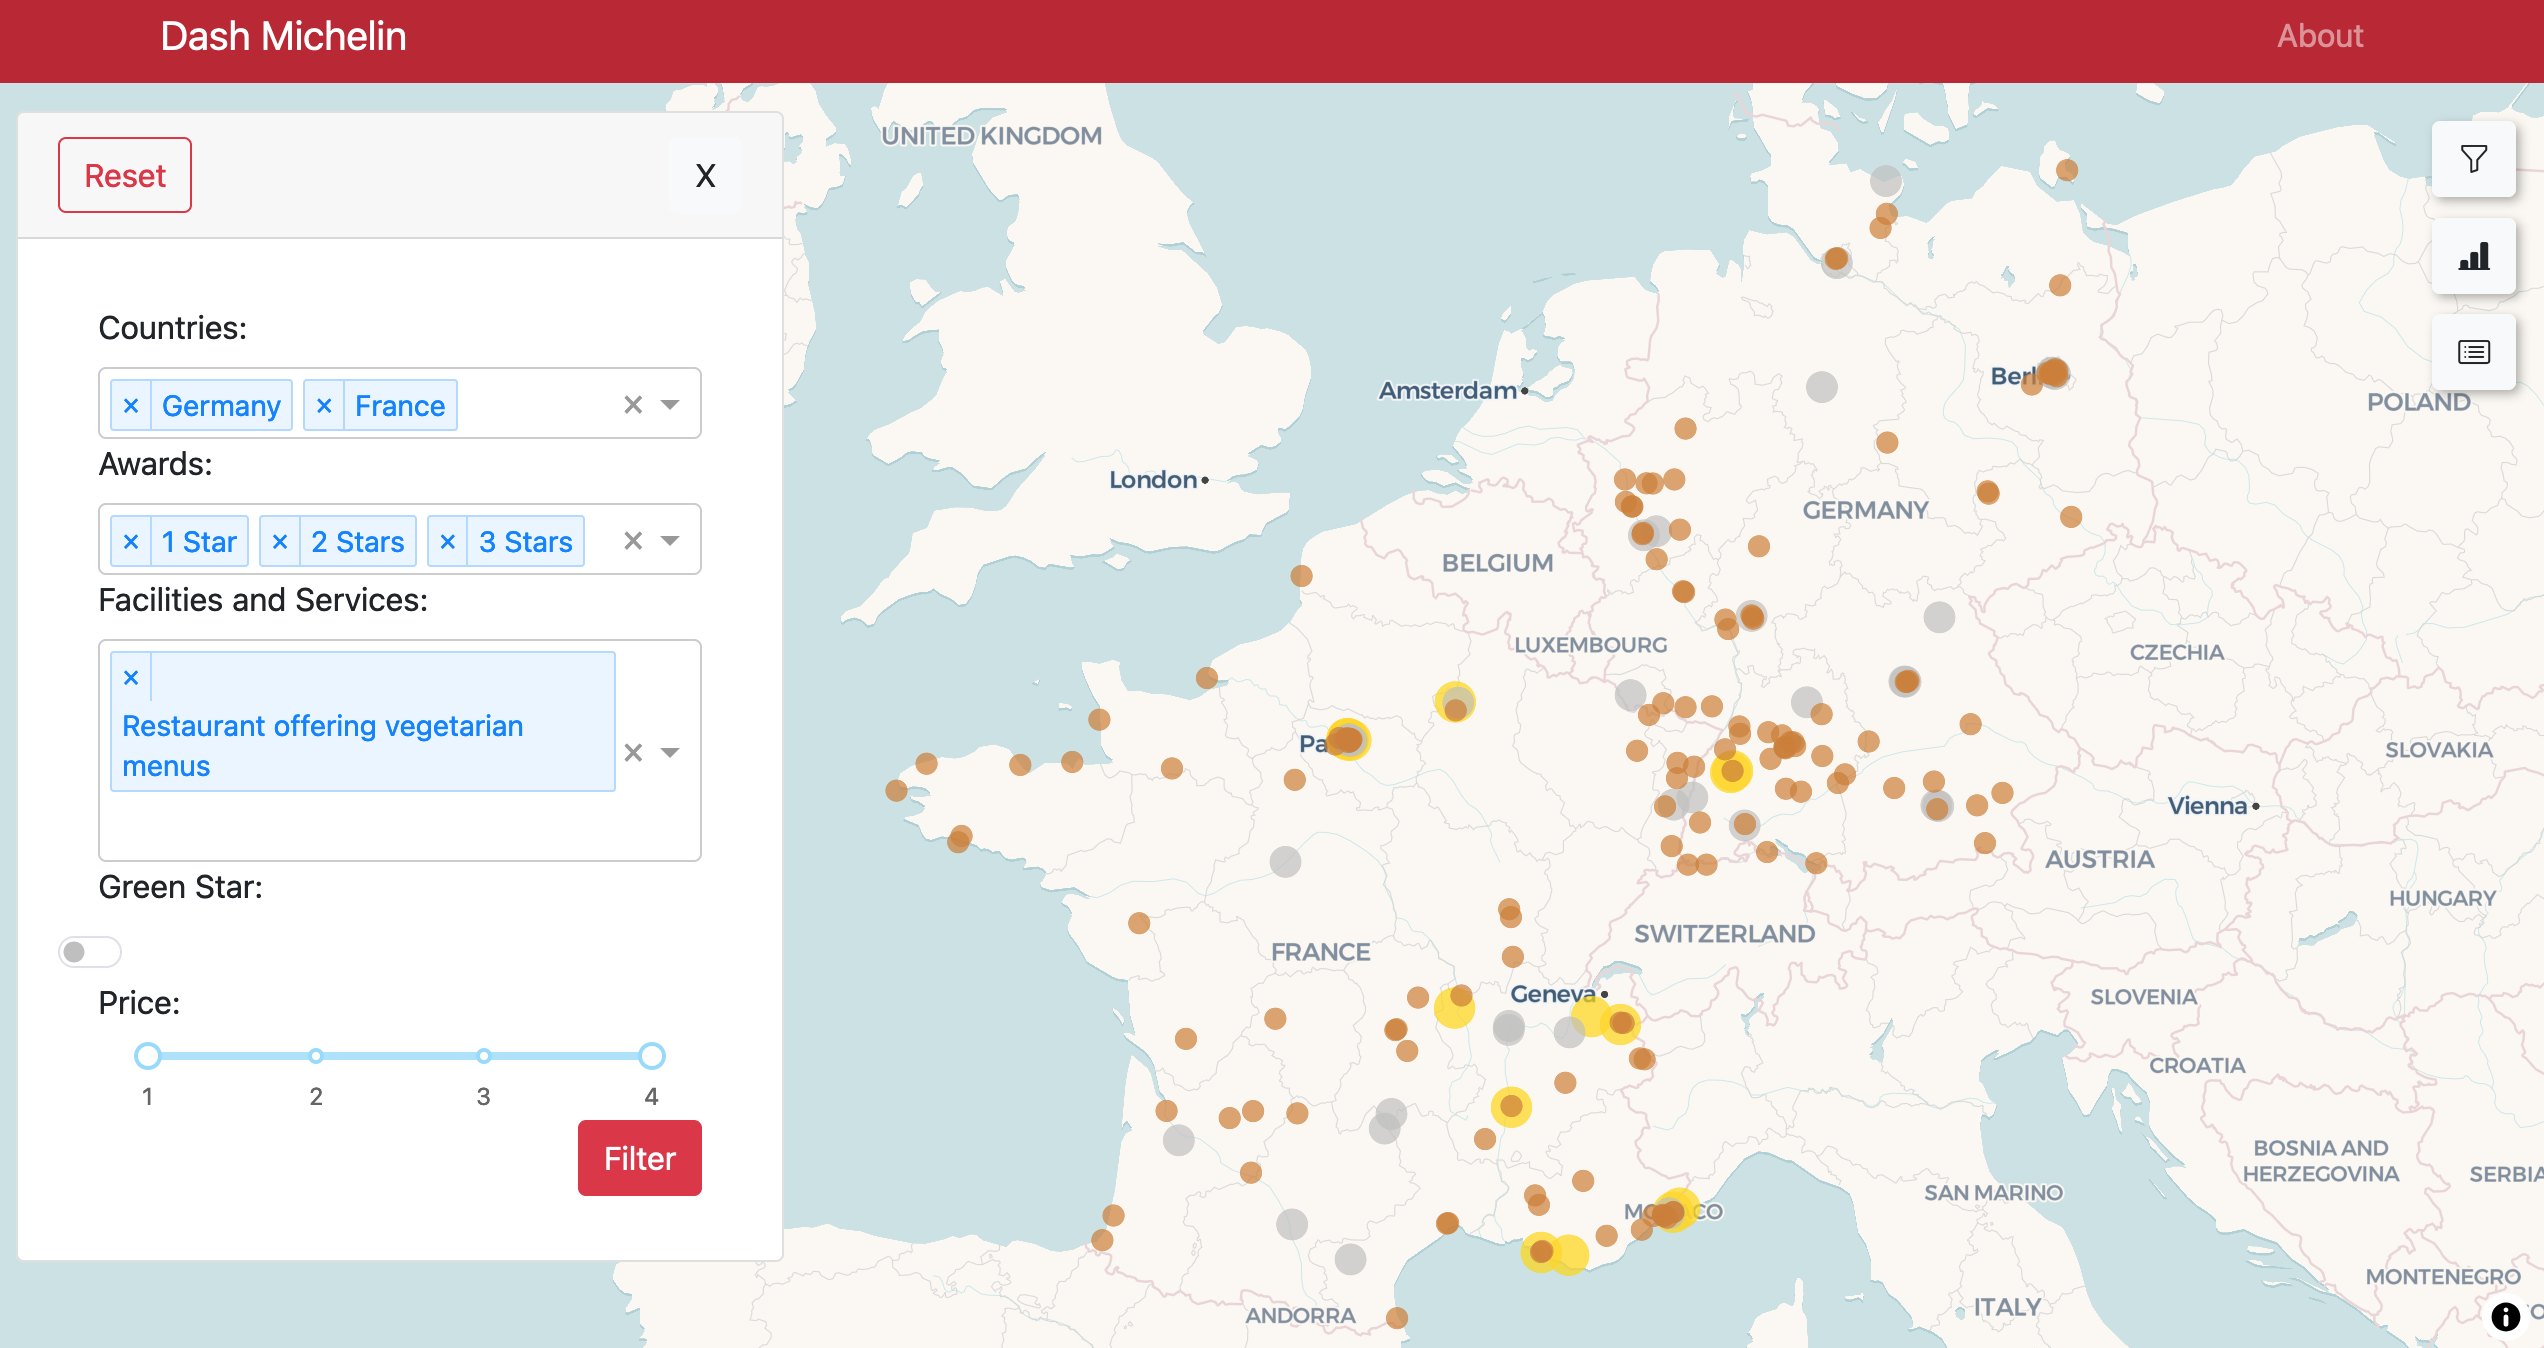
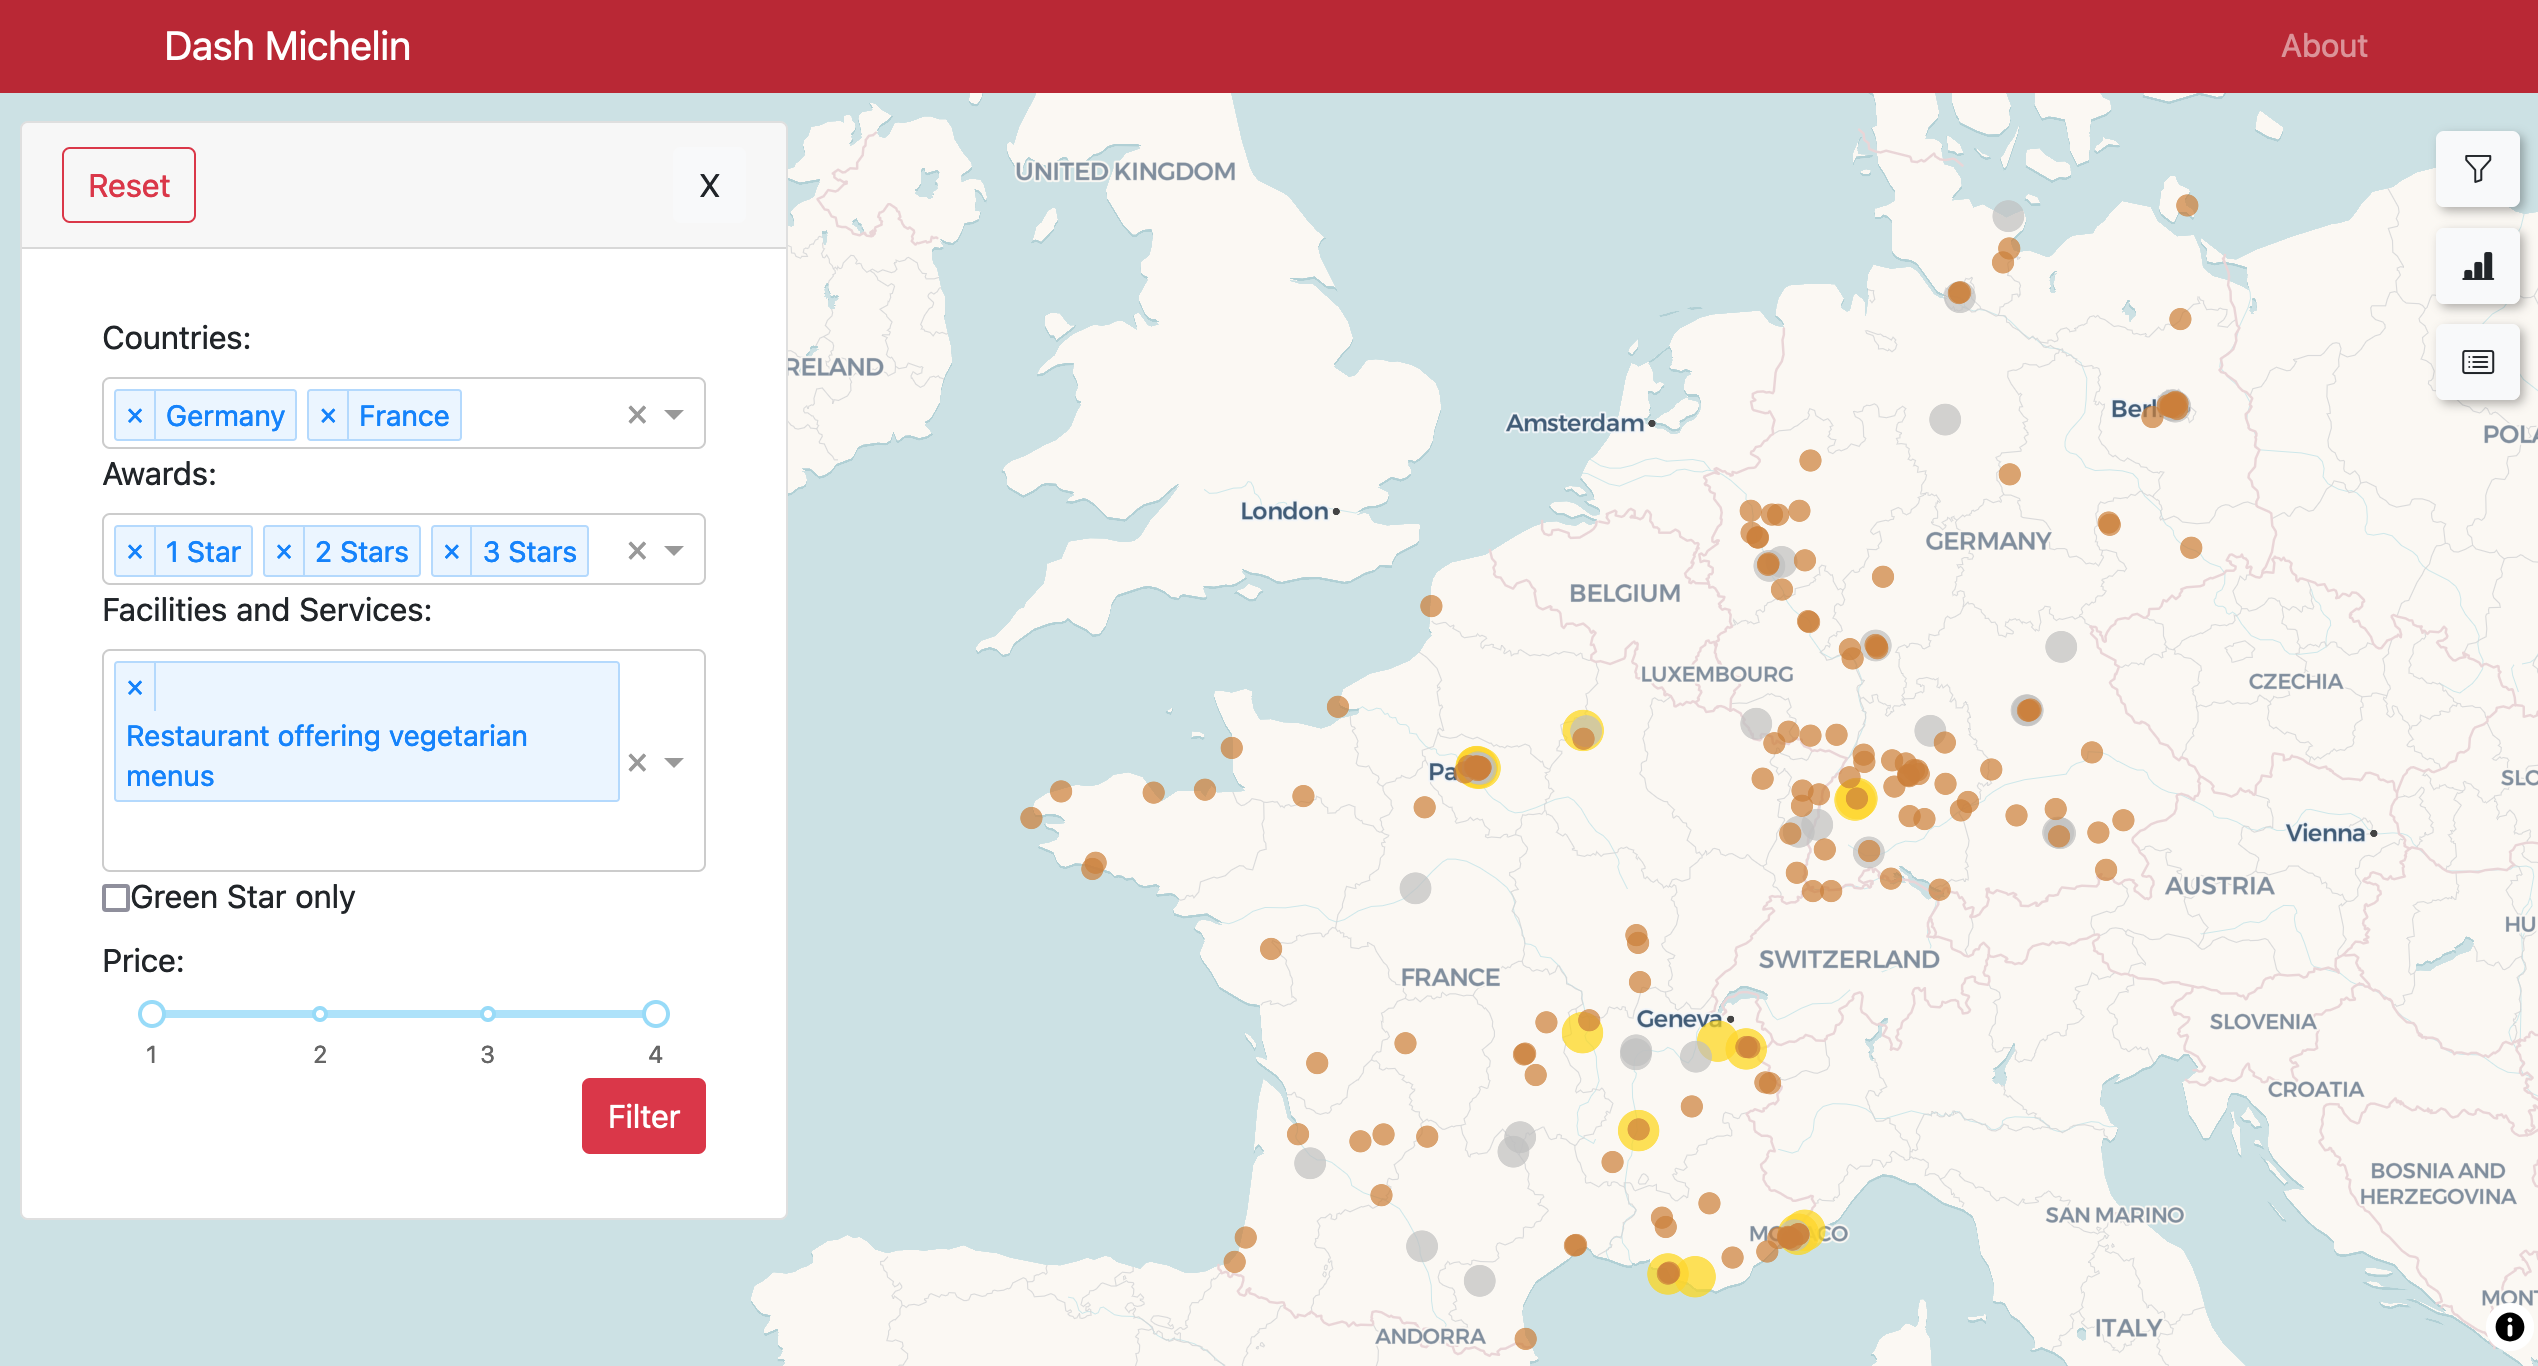
updated green star filter

diff --git a/app/components/filter_bar_list.py b/app/components/filter_bar_list.py
@@ -59,16 +59,24 @@ class FilterBarList:
                         dbc.Row(
                             dbc.Col(
                                 [
-                                    dbc.Label(
-                                        "Green Star:",
-                                        html_for="input-green-star",
-                                    ),
-                                    dbc.Switch(
+                                    # dbc.Label(
+                                    #     "Green Star:",
+                                    #     html_for="input-green-star",
+                                    # ),
+                                    # dbc.Switch(
+                                    #     id="input-green-star",
+                                    #     value=False,
+                                    # ),
+                                    dcc.Checklist(
+                                        options=[
+                                            {
+                                                "label": "Green Star only",
+                                                "value": 1,
+                                            }
+                                        ],
                                         id="input-green-star",
-                                        value=False,
                                     ),
                                 ],
-                                width=12,
                             )
                         ),
                         dbc.Row(

diff --git a/app/callbacks/callbacks_filter.py b/app/callbacks/callbacks_filter.py
@@ -33,7 +33,7 @@ def apply_filters(
         location_values=location_country_values,
         price_values=price_values,
         award_values=award_values,
-        has_green_star_value=has_green_star_value,
+        has_green_star_value=bool(has_green_star_value),
         cuisine_values=None,
         facility_values=facility_values,
     )._get_filtered_ids()
